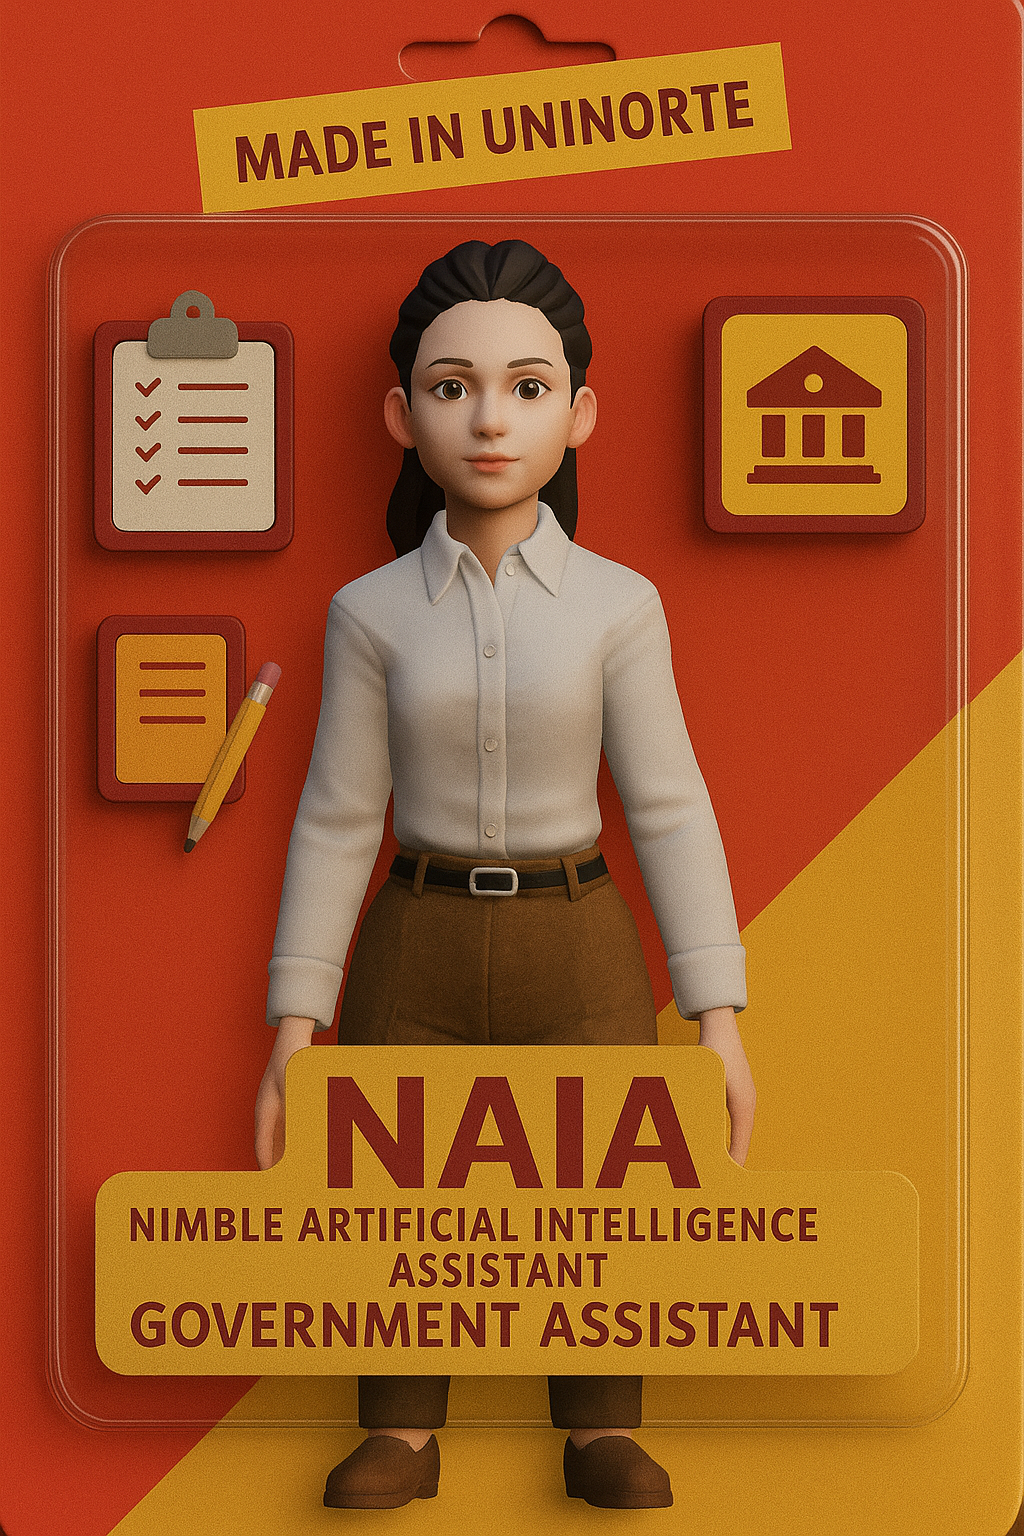
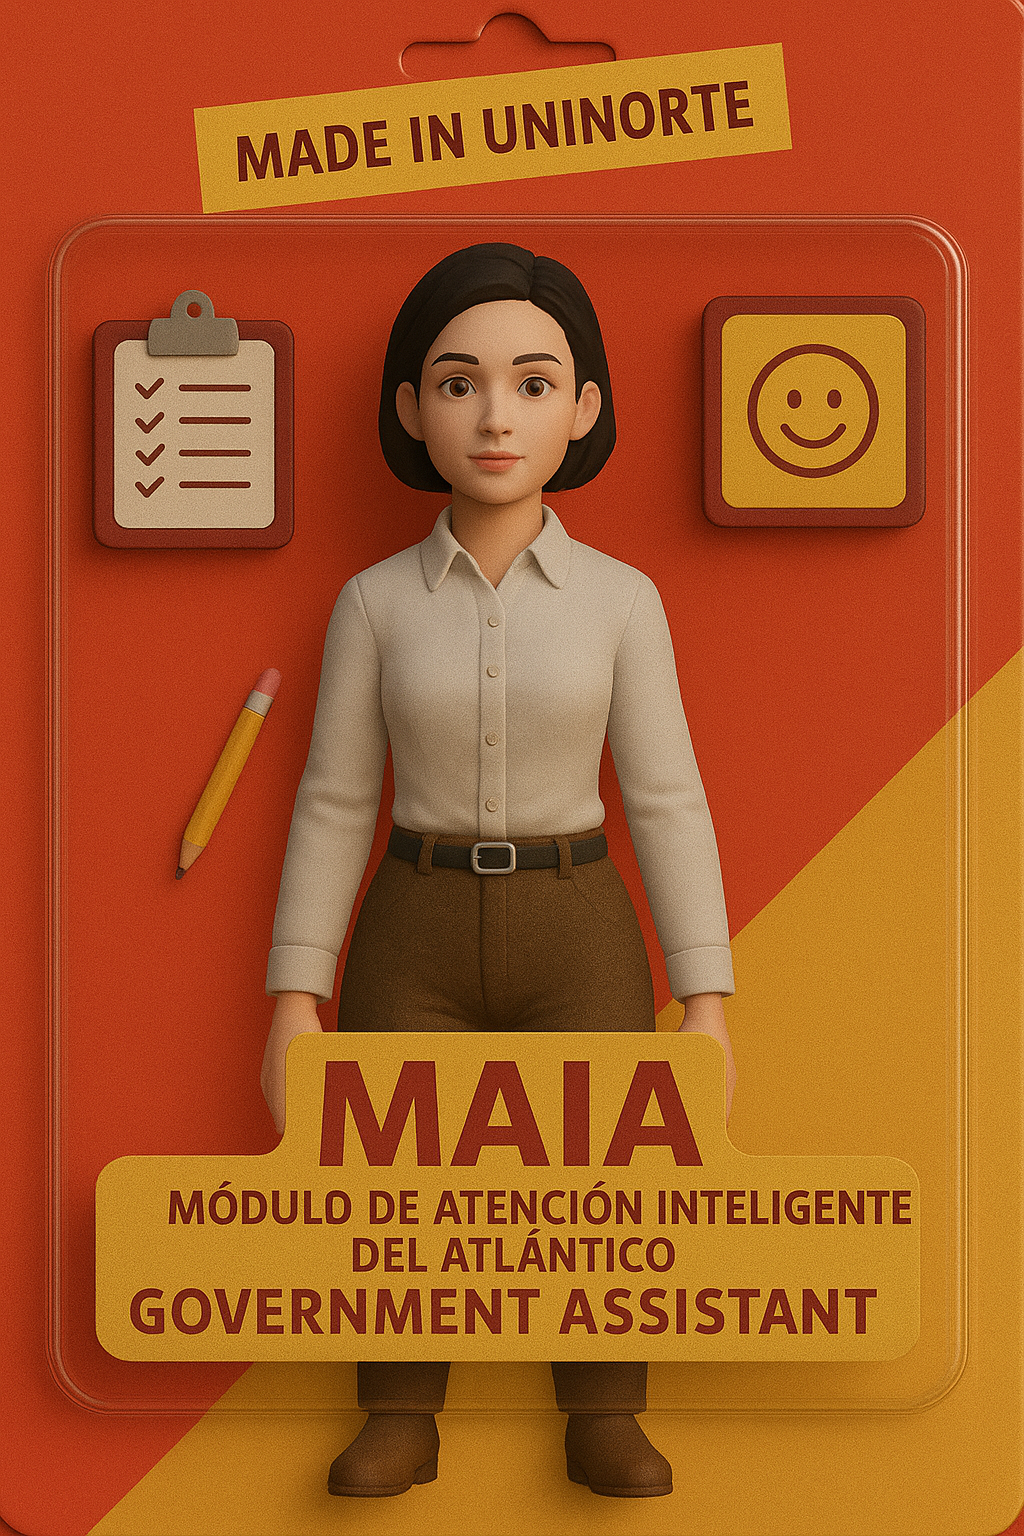
Update branding from NAIA Gov to MAIA
Renamed references from NAIA Gov to MAIA in GovHome.jsx and updated related text for clarity. Added GOV.png asset and updated Ciudadano_AF.png image.

diff --git a/src/components/gov/GovHome.jsx b/src/components/gov/GovHome.jsx
@@ -129,8 +129,8 @@ const GovHome = () => {
                   <span className="text-red-600 font-bold text-xl">G</span>
                 </div>
                 <div>
-                  <h1 className="text-2xl font-bold">NAIA Gov</h1>
-                  <p className="text-red-800 text-sm">Gobernación del Atlántico</p>
+                  <h1 className="text-2xl font-bold">MAIA</h1>
+                  <p className="text-red-800 text-sm">Modulo de atención al cliente del Atlántico</p>
                 </div>
               </div>
             </div>
@@ -187,7 +187,7 @@ const GovHome = () => {
                   </div>
                   
                  <h1 className="text-4xl md:text-5xl font-bold leading-tight">
-                  Conoce a NAIAGov, <br />
+                  Conoce a MAIA, <br />
                   <span className="text-orange-300">tu asistente AI</span> de la Gobernación
                     </h1>
                   
@@ -226,7 +226,7 @@ const GovHome = () => {
           <div className="max-w-6xl mx-auto">
             <div className="text-center mb-12">
               <h2 className="text-3xl sm:text-4xl font-bold text-gray-800 mb-4 md:pt-12">
-                ¿Cómo puede ayudarte NAIA Gov?
+                ¿Cómo puede ayudarte MAIA?
               </h2>
               <p className="text-lg text-gray-600 max-w-3xl mx-auto">
                 Diseñado específicamente para la Gobernación del Atlántico, nuestro asistente IA te guía 
